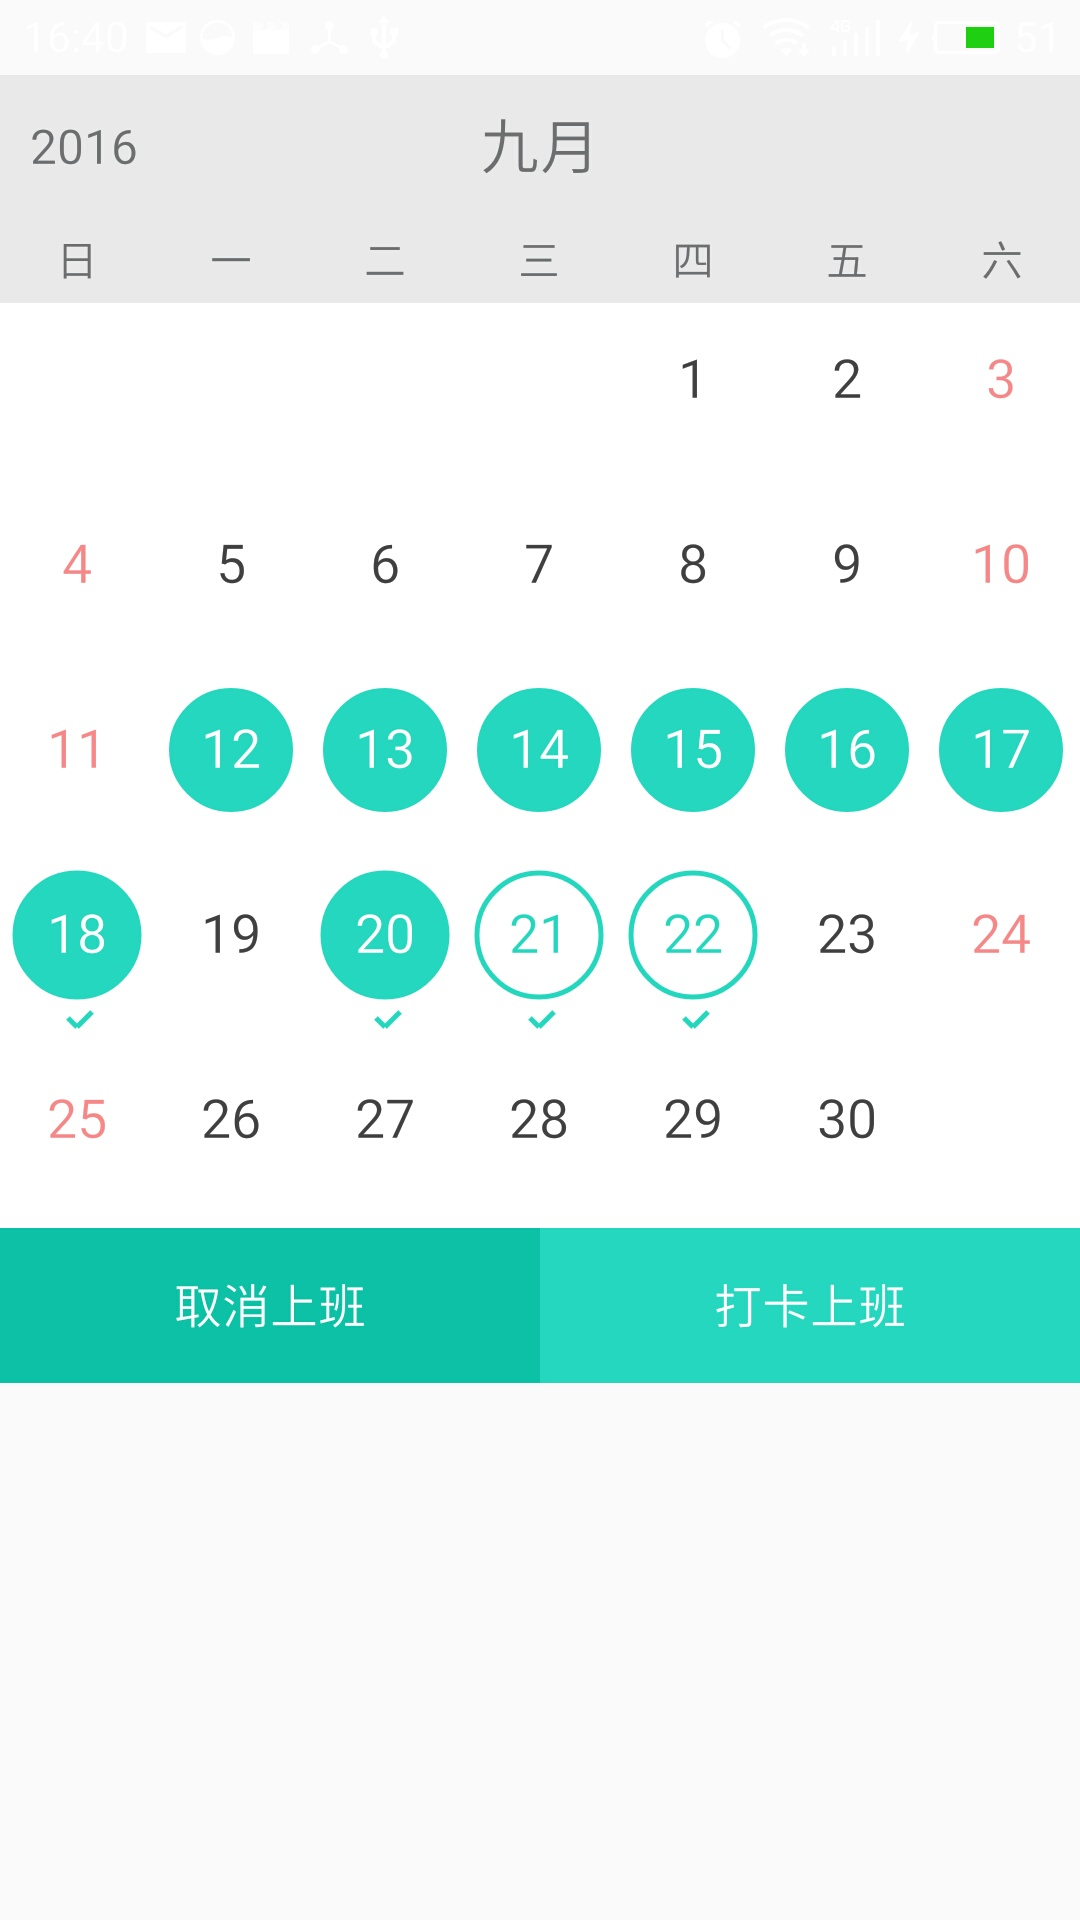
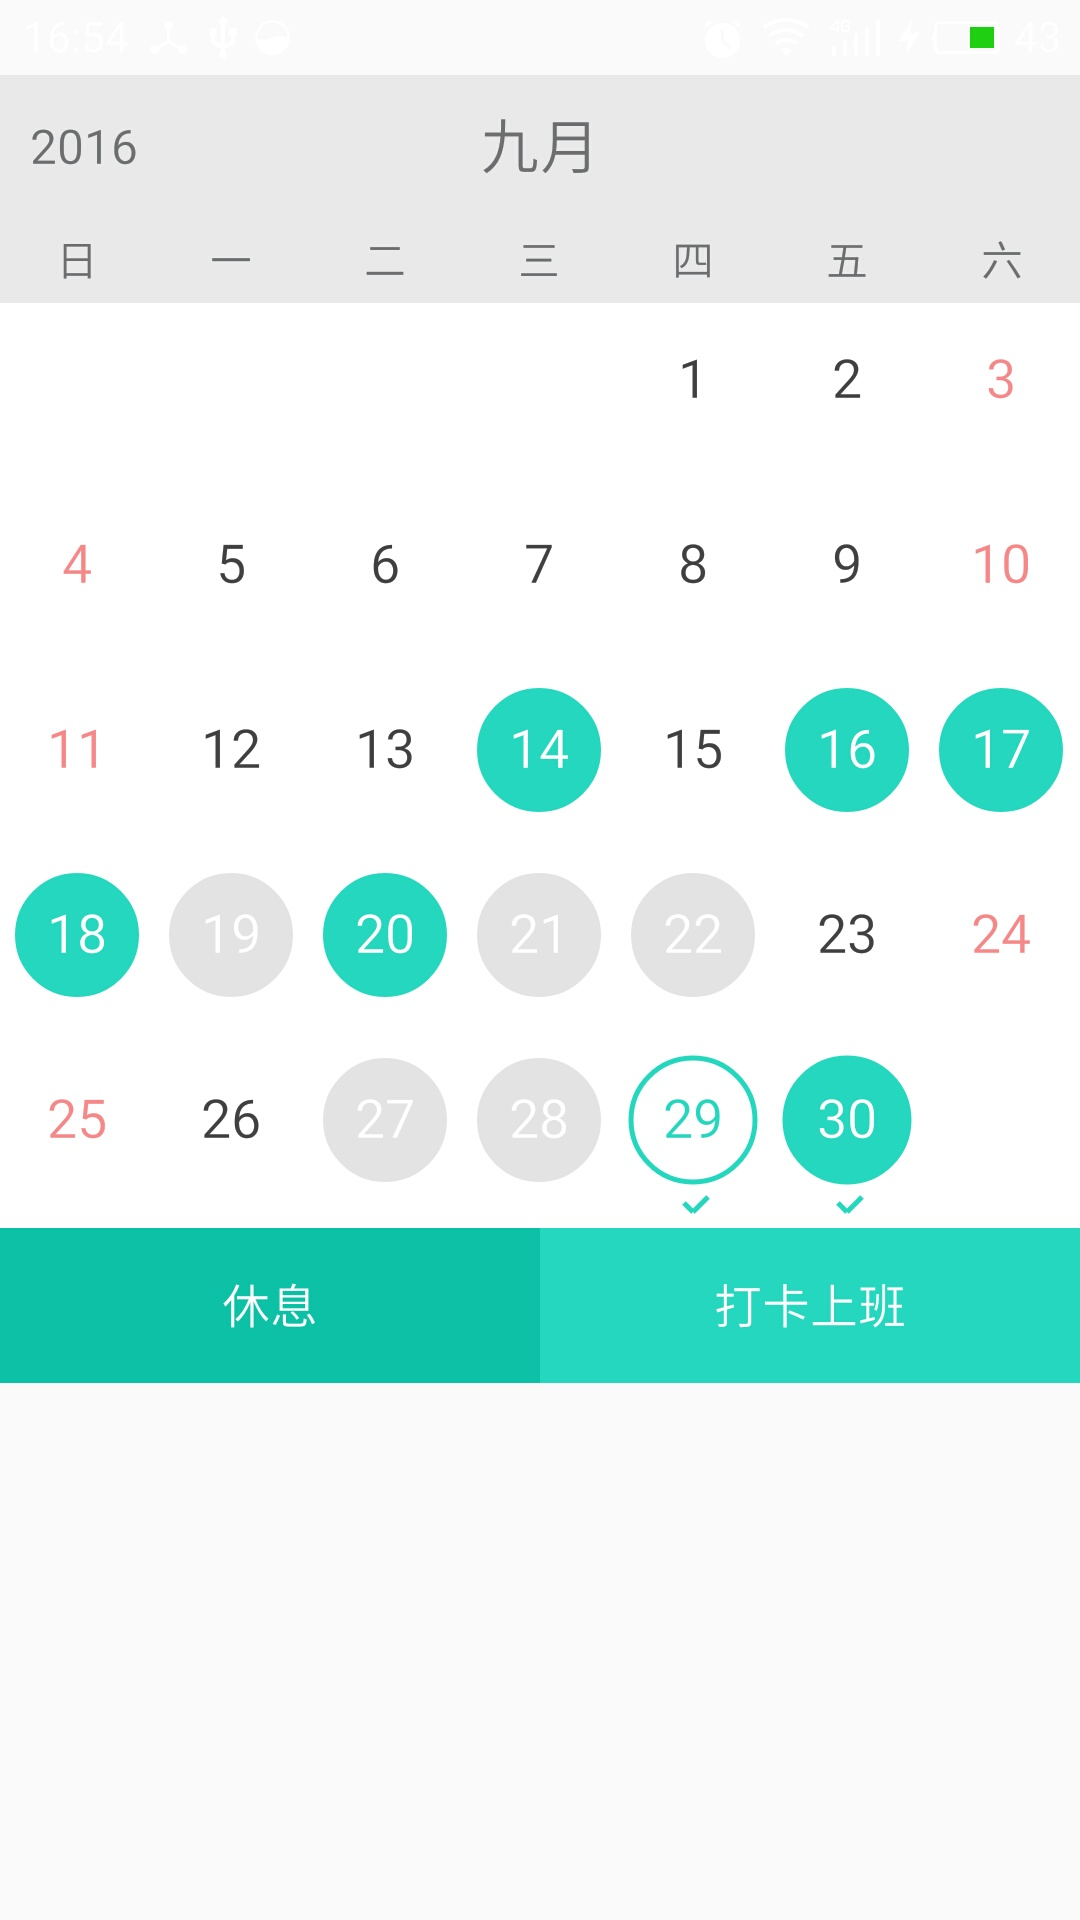
添加休息操作

diff --git a/app/src/main/java/com/wsg/mysign/mydatepicker/MonthView.java b/app/src/main/java/com/wsg/mysign/mydatepicker/MonthView.java
@@ -97,6 +97,7 @@ public class MonthView extends View {
 
     private List<String> dateSelected = new ArrayList<>();
     private List<String> dateEnterSelected = new ArrayList<>();
+    private List<String> dateCancelSelected = new ArrayList<>();
 
     public MonthView(Context context) {
         super(context);
@@ -106,6 +107,8 @@ public class MonthView extends View {
         mScroller = new Scroller(context);
         dateEnterSelected.add("2016-9-16");
         dateEnterSelected.add("2016-9-17");
+        dateCancelSelected.add("2016-9-27");
+        dateCancelSelected.add("2016-9-28");
         mPaint.setTextAlign(Paint.Align.CENTER);
     }
 
@@ -328,9 +331,9 @@ public class MonthView extends View {
         circle.getShape().getPaint().setColor(getResources().getColor(R.color.colorPrimary));
         circle.getShape().getPaint().setStrokeWidth(MeasureUtil.dp2px(getContext(), 1.5f));
         float gouCx=circle.getX();
-        float gouCy=circle.getY() + circle.getRadius() / 2+MeasureUtil.dp2px(getContext(),10);
-        canvas.drawLine(gouCx,gouCy,gouCx-MeasureUtil.dp2px(getContext(),3),gouCy-MeasureUtil.dp2px(getContext(),3),circle.getShape().getPaint());
-        canvas.drawLine(gouCx,gouCy,gouCx+MeasureUtil.dp2px(getContext(),5),gouCy-MeasureUtil.dp2px(getContext(),5),circle.getShape().getPaint());
+        float gouCy=circle.getY() + circle.getRadius() / 2+ MeasureUtil.dp2px(getContext(),10);
+        canvas.drawLine(gouCx,gouCy,gouCx- MeasureUtil.dp2px(getContext(),3),gouCy- MeasureUtil.dp2px(getContext(),3),circle.getShape().getPaint());
+        canvas.drawLine(gouCx,gouCy,gouCx+ MeasureUtil.dp2px(getContext(),5),gouCy- MeasureUtil.dp2px(getContext(),5),circle.getShape().getPaint());
         canvas.translate(circle.getX() - circle.getRadius() / 2,
                 circle.getY() - circle.getRadius() / 2);
         circle.getShape().getPaint().setStyle(Paint.Style.STROKE);
@@ -386,6 +389,10 @@ public class MonthView extends View {
             mPaint.setColor(mTManager.colorSelectedBg());
             canvas.drawCircle(rect.centerX(), rect.centerY(), circleRadius / 2F, mPaint);
         }
+        if (getCancelDateSelected().contains(centerYear + "-" + centerMonth + "-" + info.strG)) {
+            mPaint.setColor(mTManager.colorCancelBg());
+            canvas.drawCircle(rect.centerX(), rect.centerY(), circleRadius / 2F, mPaint);
+        }
         if (info.isToday && isTodayDisplay) {
             drawBGToday(canvas, rect);
         } else {
@@ -428,9 +435,18 @@ public class MonthView extends View {
         Log.i("MyTAG", "drawGregorian: " + getDateSelected());
         if (isSelChangeColor && getEnterDateSelected().contains(centerYear + "-" + centerMonth + "-" + str)) {
             mPaint.setColor(mTManager.colorSelecedText());
-        } else if (isSelChangeColor && getDateSelected().contains(centerYear + "-" + centerMonth + "-" + str)) { //选中了变色
+        }
+        else if (getCancelDateSelected().contains(centerYear + "-" + centerMonth + "-" + str)) { //选中了变色
+            mPaint.setColor(mTManager.colorSelecedText());
+        }
+        else if (getCancelDateSelected().contains(centerYear + "-" + centerMonth + "-" + str)) { //选中了变色
+            mPaint.setColor(mTManager.colorSelecedText());
+        }
+
+        else if (isSelChangeColor && getDateSelected().contains(centerYear + "-" + centerMonth + "-" + str)) { //选中了变色
             mPaint.setColor(selChangeTextColor);
-        } else if (isWeekend) {
+        }
+        else if (isWeekend) {
             mPaint.setColor(mTManager.colorWeekend());
         } else {
             mPaint.setColor(mTManager.colorG());
@@ -536,6 +552,9 @@ public class MonthView extends View {
 
     List<String> getEnterDateSelected() {
         return dateEnterSelected;
+    }
+    List<String> getCancelDateSelected() {
+        return dateCancelSelected;
     }
 
     void setOnDateChangeListener(OnDateChangeListener onDateChangeListener) {
@@ -722,6 +741,8 @@ public class MonthView extends View {
                         }
                         final String date = centerYear + "-" + centerMonth + "-" +
                                 mCManager.obtainDPInfo(centerYear, centerMonth)[i][j].strG;
+                        if (getCancelDateSelected().contains(date))
+                            return;
                         if (dateEnterSelected.contains(date)) {
                             if (dateSelected.contains(date)) {
                                 dateSelected.remove(date);
@@ -892,6 +913,15 @@ public class MonthView extends View {
         public void onAnimationUpdate(ValueAnimator animation) {
             MonthView.this.invalidate();
         }
+    }
+    public void clearSelected(){
+        if(dateSelected==null) return;
+        for (String date:dateSelected){
+            cirApr.remove(date);
+        }
+//        cirApr.clear();
+        dateSelected.clear();
+
     }
 
 

diff --git a/app/src/main/java/com/wsg/mysign/mydatepicker/SignDatePicker.java b/app/src/main/java/com/wsg/mysign/mydatepicker/SignDatePicker.java
@@ -159,9 +159,9 @@ public class SignDatePicker extends LinearLayout {
         addView(monthView, llParams);
         //年份显示
         cancleWork = new TextView(context);
-        cancleWork.setText("取消上班");
+        cancleWork.setText("休息");
         cancleWork.setClickable(true);
-        cancleWork.setPadding(0,MeasureUtil.dp2px(getContext(),15),0,MeasureUtil.dp2px(getContext(),15));
+        cancleWork.setPadding(0, MeasureUtil.dp2px(getContext(),15),0, MeasureUtil.dp2px(getContext(),15));
         cancleWork.setBackgroundColor(getResources().getColor(R.color.colorPrimaryShape));
         cancleWork.setGravity(Gravity.CENTER);
         cancleWork.setTextSize(TypedValue.COMPLEX_UNIT_DIP, 16);
@@ -170,7 +170,7 @@ public class SignDatePicker extends LinearLayout {
             @Override
             public void onClick(View v) {
                 if (null != onDateSelectedListener) {
-                    onDateSelectedListener.oncancelGoWok(monthView.getDateSelected());
+                    onDateSelectedListener.onCancelGoWok(monthView.getDateSelected());
                 }
             }
         });
@@ -179,7 +179,7 @@ public class SignDatePicker extends LinearLayout {
         goWork.setText("打卡上班");
         goWork.setClickable(true);
         goWork.setGravity(Gravity.CENTER);
-        goWork.setPadding(0,MeasureUtil.dp2px(getContext(),15),0,MeasureUtil.dp2px(getContext(),15));
+        goWork.setPadding(0, MeasureUtil.dp2px(getContext(),15),0, MeasureUtil.dp2px(getContext(),15));
         goWork.setBackgroundColor(getResources().getColor(R.color.colorPrimary));
         goWork.setTextSize(TypedValue.COMPLEX_UNIT_DIP, 16);
         goWork.setTextColor(mTManager.colorBG());
@@ -206,6 +206,9 @@ public class SignDatePicker extends LinearLayout {
     }
     public List getDateEnterSelected(){
         return monthView.getEnterDateSelected();
+    }
+    public List getDateCancelSelected(){
+        return monthView.getCancelDateSelected();
     }
     /**
      * 设置初始化年月日期
@@ -270,6 +273,9 @@ public class SignDatePicker extends LinearLayout {
 
 
 
+    public void clearSelected(){
+        monthView.clearSelected();
+    }
     /**
      * 设置多选监听器
      *
@@ -286,6 +292,9 @@ public class SignDatePicker extends LinearLayout {
     public void setUpDate(List<String> strings) {
         monthView.getEnterDateSelected().addAll(strings);
     }
+    public void setCancleDate(List<String> strings) {
+        monthView.getCancelDateSelected().addAll(strings);
+    }
 
 
     /**
@@ -293,7 +302,10 @@ public class SignDatePicker extends LinearLayout {
      */
     public interface OnDateSelectedListener {
         void onGoWok(List<String> date);
-        void oncancelGoWok(List<String> date);
+        void onCancelGoWok(List<String> date);
     }
 
+    public interface OnDatePickedListener {
+        void onDatePicked(String date);
+    }
 }

diff --git a/app/src/main/java/com/wsg/mysigndate/SignActivity.java b/app/src/main/java/com/wsg/mysigndate/SignActivity.java
@@ -22,33 +22,29 @@ public class SignActivity extends AppCompatActivity {
         setContentView(R.layout.activity_sign);
         final SignDatePicker picker = (SignDatePicker) findViewById(R.id.main_dp);
         picker.setDate(2016, 9);
-        picker.setUpDate(Arrays.asList(new String[]{"2016-9-16","2016-9-17","2016-9-18"}));
-        picker.setDPDecor(new DPDecor(){
-            @Override
-            public void drawDecorBG(Canvas canvas, Rect rect, Paint paint,String date) {
-                if(picker.getDateEnterSelected().contains(date)) {
-                    paint.setColor(Color.RED);
-                    canvas.drawCircle(rect.centerX(), rect.centerY(), rect.width() / 2F, paint);
-                }
-                Toast.makeText(SignActivity.this,"picker",Toast.LENGTH_SHORT).show();
-            }
-        });
+        picker.setUpDate(Arrays.asList(new String[]{"2016-9-16", "2016-9-17", "2016-9-18"}));
+        picker.setCancleDate(Arrays.asList(new String[]{"2016-9-19", "2016-9-21", "2016-9-22"}));
         picker.setFestivalDisplay(false);
         picker.setDeferredDisplay(false);
         picker.setHolidayDisplay(false);
         picker.setTodayDisplay(false);
-      picker.setOnDateSelectedListener(new SignDatePicker.OnDateSelectedListener() {
-          @Override
-          public void onGoWok(List<String> date) {
-              picker.getDateEnterSelected().addAll(date);
-              picker.invalidate();
-              Toast.makeText(SignActivity.this, Arrays.toString(date.toArray()),Toast.LENGTH_SHORT).show();
-          }
-          @Override
-          public void oncancelGoWok(List<String> date) {
-              picker.getDateEnterSelected().removeAll(date);
-              picker.invalidate();
-          }
-      });
+        picker.setOnDateSelectedListener(new SignDatePicker.OnDateSelectedListener() {
+            @Override
+            public void onGoWok(List<String> date) {
+                Toast.makeText(SignActivity.this, "添加上班日期:" + Arrays.toString(date.toArray()), Toast.LENGTH_SHORT).show();
+                picker.getDateEnterSelected().addAll(date);
+                picker.clearSelected();
+                picker.invalidate();
+            }
+
+            @Override
+            public void onCancelGoWok(List<String> date) {
+                Toast.makeText(SignActivity.this, "添加休息日期:" + Arrays.toString(date.toArray()), Toast.LENGTH_SHORT).show();
+                picker.getDateEnterSelected().removeAll(date);
+                picker.getDateCancelSelected().addAll(date);
+                picker.clearSelected();
+                picker.invalidate();
+            }
+        });
     }
 }

diff --git a/app/src/main/java/com/wsg/mysign/mydatepicker/DPTheme.java b/app/src/main/java/com/wsg/mysign/mydatepicker/DPTheme.java
@@ -68,6 +68,7 @@ public abstract class DPTheme {
     public abstract int colorSelectedText();
     public abstract int colorSelectingBg();
     public abstract int colorSelectedBg();
+    public abstract int colorCancelBg();
     /**
      * 节日文本颜色
      * 

diff --git a/app/src/main/java/com/wsg/mysign/mydatepicker/DPTManager.java b/app/src/main/java/com/wsg/mysign/mydatepicker/DPTManager.java
@@ -116,6 +116,9 @@ public final class DPTManager {
     public int colorSelectedBg() {
         return theme.colorSelectedBg();
     }
+    public int colorCancelBg() {
+        return theme.colorCancelBg();
+    }
     /**
      * @see DPCNTheme#colorL()
      */

diff --git a/app/src/main/java/com/wsg/mysign/mydatepicker/DPBaseTheme.java b/app/src/main/java/com/wsg/mysign/mydatepicker/DPBaseTheme.java
@@ -59,6 +59,11 @@ public class DPBaseTheme extends DPTheme {
     }
 
     @Override
+    public int colorCancelBg() {
+        return 0xffE3E3E3;
+    }
+
+    @Override
     public int colorF() {
         return 0xEEC08AA4;
     }
